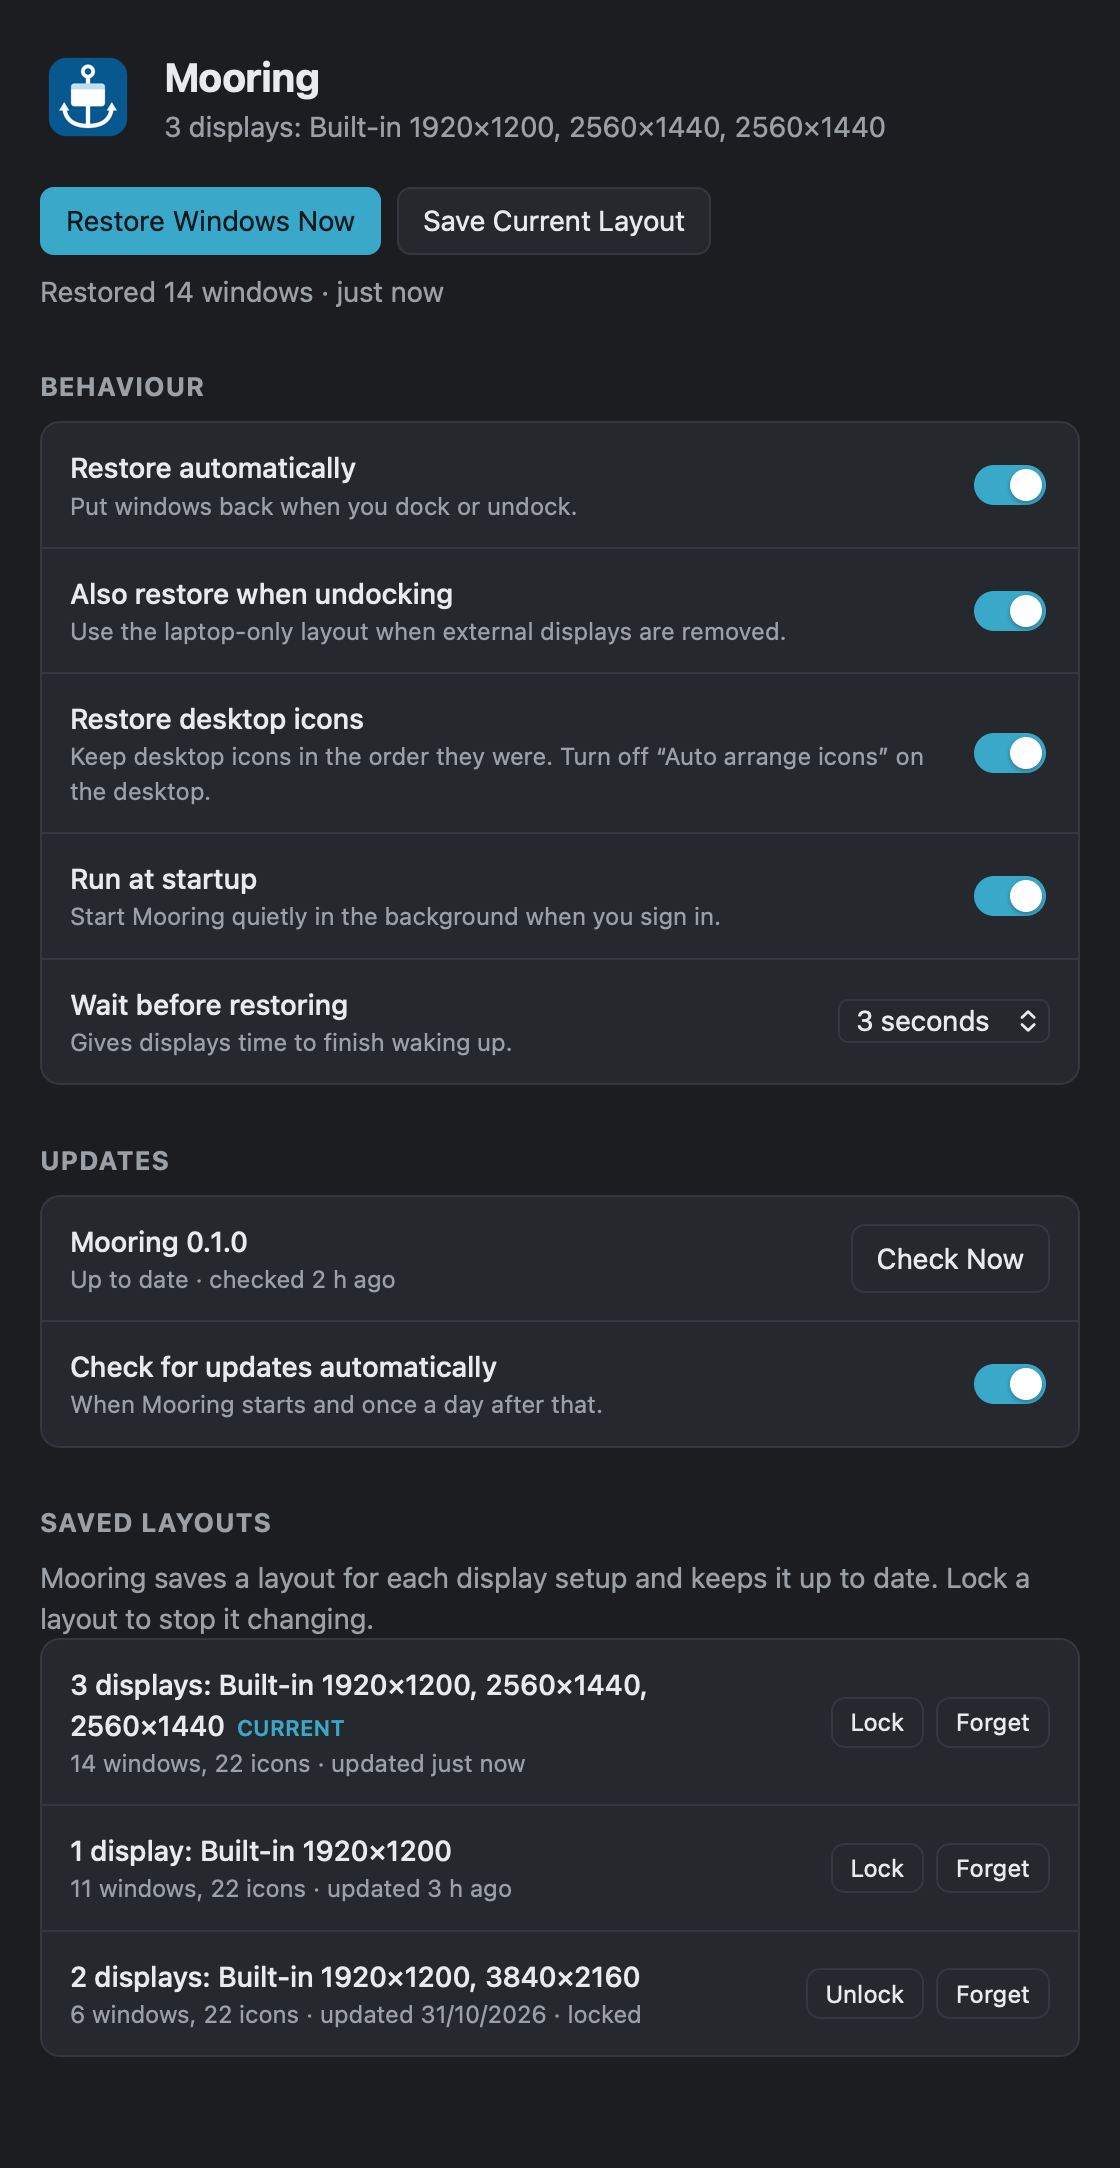
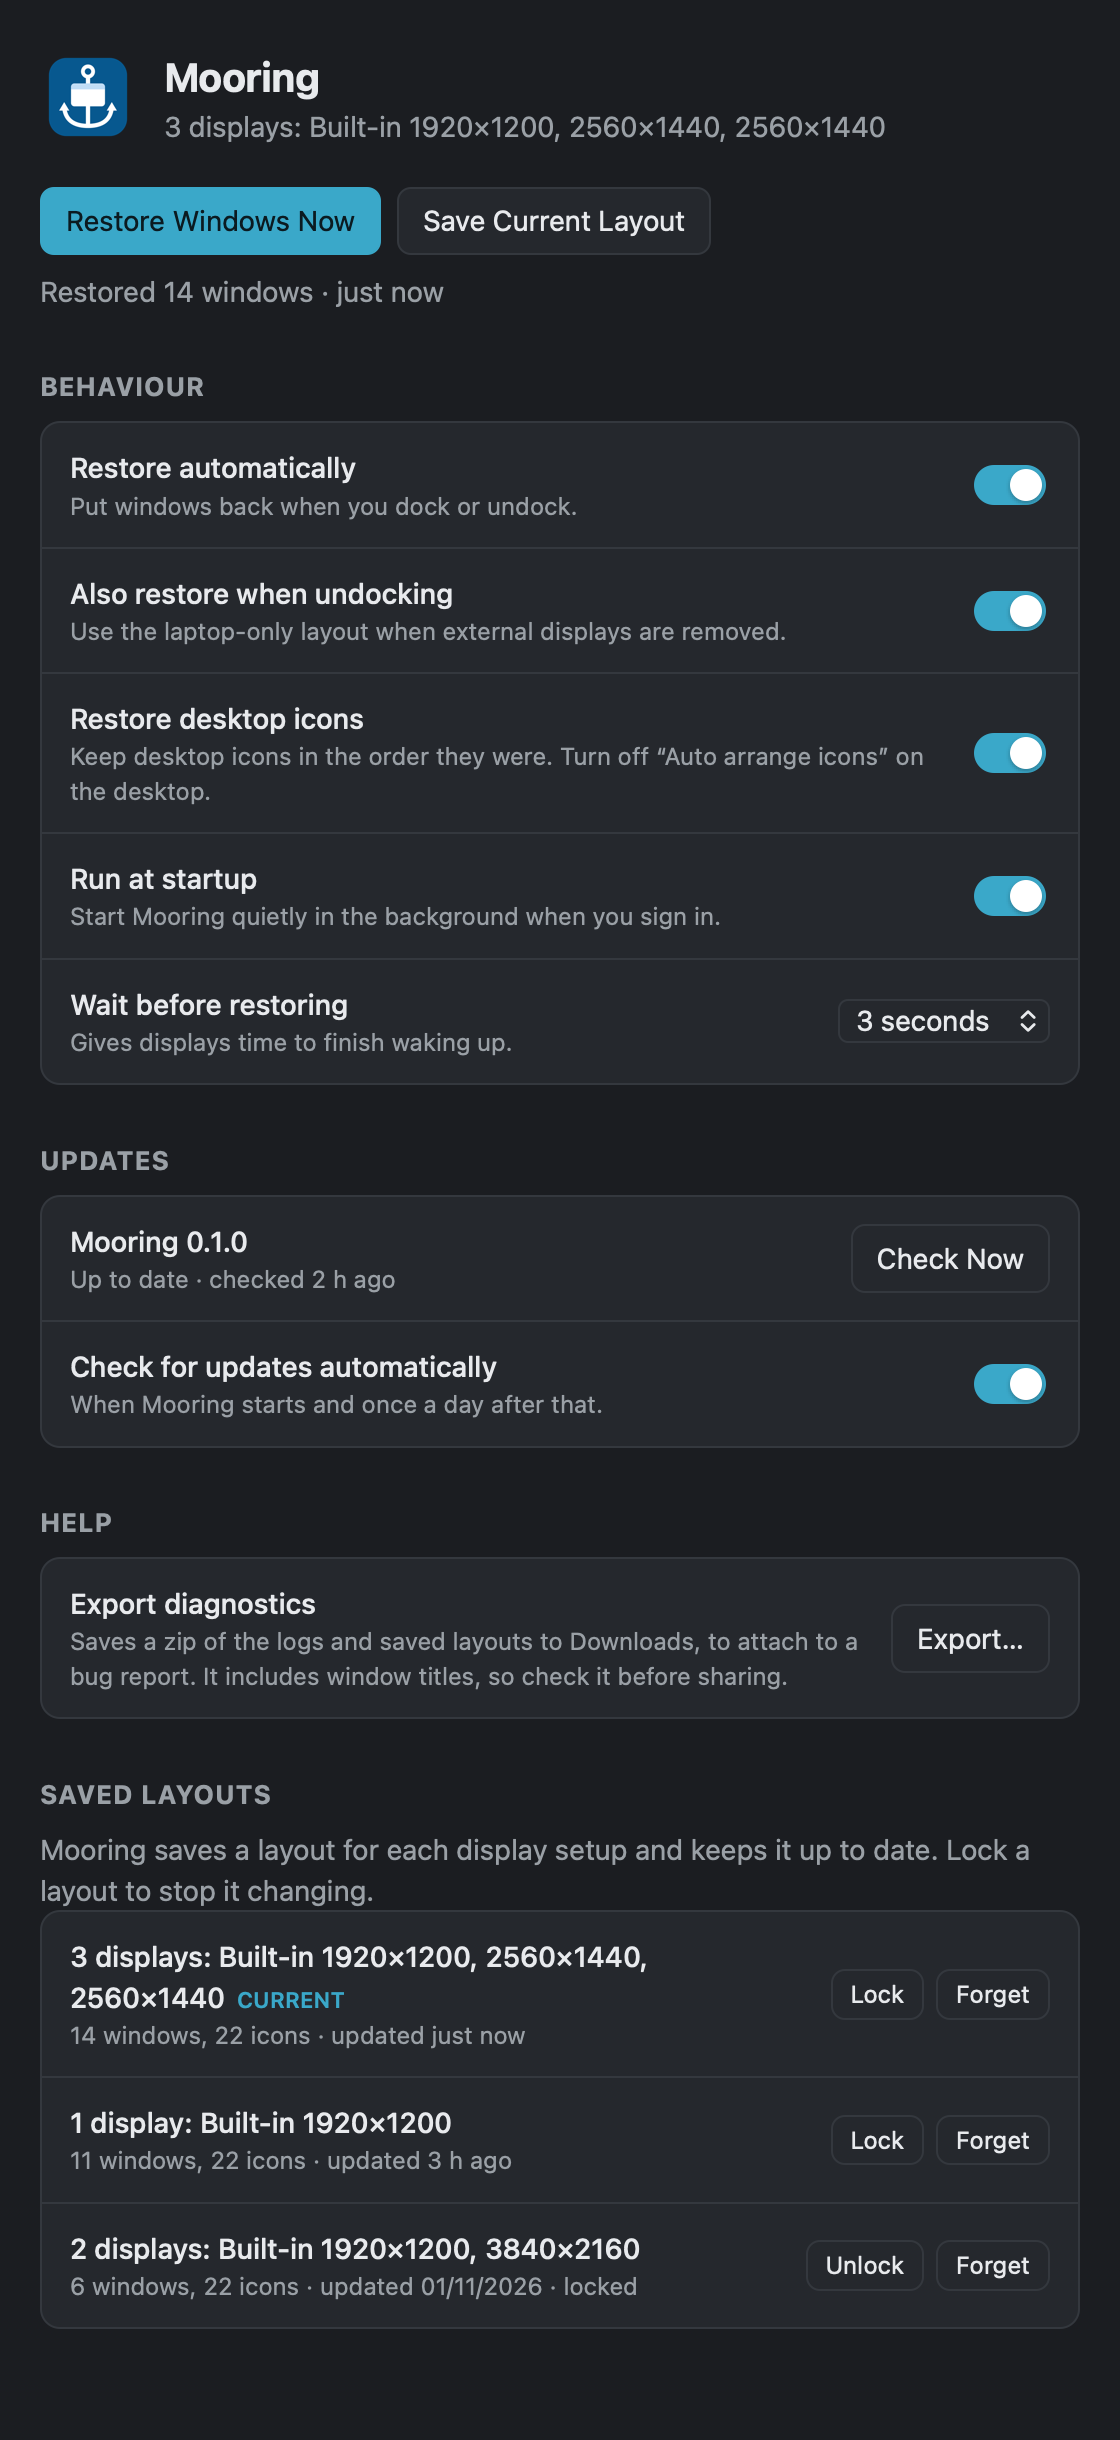
Add Export Diagnostics
A Settings button and a tray item save a zip to Downloads with the logs,
saved layouts, settings and system.json (version, OS, displays, login
item and current status), then show it in Finder / Explorer.

diff --git a/ui/index.html b/ui/index.html
@@ -108,6 +108,17 @@
       </label>
     </section>
 
+    <h2>Help</h2>
+    <section class="group">
+      <div class="row">
+        <span>
+          <span class="title">Export diagnostics</span>
+          <span class="hint">Saves a zip of the logs and saved layouts to Downloads, to attach to a bug report. It includes window titles, so check it before sharing.</span>
+        </span>
+        <button id="diagnostics">Export…</button>
+      </div>
+    </section>
+
     <h2>Saved Layouts</h2>
     <p class="muted">Mooring saves a layout for each display setup and keeps it up to date. Lock a layout to stop it changing.</p>
     <section class="group" id="layouts"></section>

diff --git a/ui/main.js b/ui/main.js
@@ -160,6 +160,9 @@ $("restore").onclick = () =>
     r.moved ? `Restored ${r.moved} windows` : "Windows are already in place");
 $("save").onclick = () => run($("save"), "save_now", (n) => `Saved ${n} windows`);
 $("grant").onclick = () => invoke("request_permission");
+$("diagnostics").onclick = () =>
+  run($("diagnostics"), "export_diagnostics", (path) =>
+    `Saved ${path.split(/[\\/]/).pop()} to Downloads`);
 $("open-login-items").onclick = () => invoke("open_login_items");
 $("update-banner-install").onclick = installUpdate;
 $("update-action").onclick = async () => {

diff --git a/src-tauri/src/diagnostics.rs b/src-tauri/src/diagnostics.rs
@@ -1,0 +1,162 @@
+//! "Export Diagnostics": a zip of everything useful for a bug report.
+//!
+//! It holds the logs, saved layouts and settings, and `system.json` with the
+//! Mooring version, OS, displays and current status. It's saved to Downloads
+//! and shown in Finder / Explorer, ready to attach to an issue.
+
+use crate::engine::{now_secs, Engine};
+use crate::{login, platform};
+use serde_json::json;
+use std::fs::File;
+use std::io::Write;
+use std::path::{Path, PathBuf};
+use tauri::{AppHandle, Manager};
+use zip::write::SimpleFileOptions;
+use zip::ZipWriter;
+
+/// Builds the zip and returns where it was saved.
+pub fn export(app: &AppHandle, engine: &Engine) -> Result<PathBuf, String> {
+    let path = app.path();
+    let out_dir = path
+        .download_dir()
+        .or_else(|_| path.desktop_dir())
+        .map_err(|e| e.to_string())?;
+    let out = out_dir.join(format!("Mooring diagnostics {}.zip", timestamp()));
+    let data_dir = path.app_data_dir().map_err(|e| e.to_string())?;
+    let log_dir = path.app_log_dir().map_err(|e| e.to_string())?;
+
+    let file = File::create(&out).map_err(|e| format!("Couldn't create {}: {e}", out.display()))?;
+    let mut zip = ZipWriter::new(file);
+    let options = SimpleFileOptions::default();
+
+    let system = serde_json::to_string_pretty(&system_info(app, engine)).unwrap_or_default();
+    add_bytes(&mut zip, "system.json", system.as_bytes(), options)?;
+    for name in ["settings.json", "layouts.json"] {
+        add_file(&mut zip, name, &data_dir.join(name), options)?;
+    }
+    if let Ok(entries) = std::fs::read_dir(&log_dir) {
+        for entry in entries.flatten() {
+            let p = entry.path();
+            if p.extension().is_some_and(|e| e == "log") {
+                let name = format!("logs/{}", entry.file_name().to_string_lossy());
+                add_file(&mut zip, &name, &p, options)?;
+            }
+        }
+    }
+    zip.finish().map_err(|e| e.to_string())?;
+
+    log::info!("exported diagnostics to {}", out.display());
+    reveal(&out);
+    Ok(out)
+}
+
+fn system_info(app: &AppHandle, engine: &Engine) -> serde_json::Value {
+    json!({
+        "mooring_version": app.package_info().version.to_string(),
+        "platform": platform::NAME,
+        "os_version": os_version(),
+        "arch": std::env::consts::ARCH,
+        "exported_at": now_secs(),
+        "launch_at_login": login::is_enabled(app),
+        "login_needs_approval": login::needs_approval(app),
+        "displays": platform::displays(),
+        "open_windows": platform::windows().len(),
+        "status": engine.status(),
+    })
+}
+
+fn add_bytes(
+    zip: &mut ZipWriter<File>,
+    name: &str,
+    bytes: &[u8],
+    options: SimpleFileOptions,
+) -> Result<(), String> {
+    zip.start_file(name, options).map_err(|e| e.to_string())?;
+    zip.write_all(bytes).map_err(|e| e.to_string())
+}
+
+/// Adds a file if it exists; a missing file (say, no layouts yet) is skipped.
+fn add_file(
+    zip: &mut ZipWriter<File>,
+    name: &str,
+    path: &Path,
+    options: SimpleFileOptions,
+) -> Result<(), String> {
+    match std::fs::read(path) {
+        Ok(bytes) => add_bytes(zip, name, &bytes, options),
+        Err(_) => Ok(()),
+    }
+}
+
+/// Local date and time for the file name, e.g. `2026-11-03 1142`.
+fn timestamp() -> String {
+    #[cfg(target_os = "macos")]
+    let output = std::process::Command::new("date")
+        .arg("+%Y-%m-%d %H%M")
+        .output();
+    #[cfg(windows)]
+    let output = hidden_command("powershell")
+        .args([
+            "-NoProfile",
+            "-Command",
+            "Get-Date -Format 'yyyy-MM-dd HHmm'",
+        ])
+        .output();
+    #[cfg(not(any(target_os = "macos", windows)))]
+    let output = std::process::Command::new("date")
+        .arg("+%Y-%m-%d %H%M")
+        .output();
+    output
+        .ok()
+        .map(|o| String::from_utf8_lossy(&o.stdout).trim().to_string())
+        .filter(|s| !s.is_empty())
+        .unwrap_or_else(|| now_secs().to_string())
+}
+
+fn os_version() -> String {
+    #[cfg(target_os = "macos")]
+    let output = std::process::Command::new("sw_vers").output();
+    #[cfg(windows)]
+    let output = hidden_command("cmd").args(["/C", "ver"]).output();
+    #[cfg(not(any(target_os = "macos", windows)))]
+    let output = std::process::Command::new("uname").arg("-a").output();
+    output
+        .ok()
+        .map(|o| {
+            String::from_utf8_lossy(&o.stdout)
+                .split_whitespace()
+                .collect::<Vec<_>>()
+                .join(" ")
+        })
+        .unwrap_or_default()
+}
+
+/// Shows the file selected in Finder / Explorer.
+fn reveal(path: &Path) {
+    #[cfg(target_os = "macos")]
+    let result = std::process::Command::new("open")
+        .arg("-R")
+        .arg(path)
+        .spawn();
+    #[cfg(windows)]
+    let result = std::process::Command::new("explorer")
+        .arg(format!("/select,{}", path.display()))
+        .spawn();
+    #[cfg(not(any(target_os = "macos", windows)))]
+    let result = std::process::Command::new("xdg-open")
+        .arg(path.parent().unwrap_or(path))
+        .spawn();
+    if let Err(e) = result {
+        log::warn!("could not show diagnostics file: {e}");
+    }
+}
+
+/// A command that doesn't flash a console window.
+#[cfg(windows)]
+fn hidden_command(program: &str) -> std::process::Command {
+    use std::os::windows::process::CommandExt;
+    const CREATE_NO_WINDOW: u32 = 0x0800_0000;
+    let mut command = std::process::Command::new(program);
+    command.creation_flags(CREATE_NO_WINDOW);
+    command
+}

diff --git a/src-tauri/src/lib.rs b/src-tauri/src/lib.rs
@@ -1,3 +1,4 @@
+mod diagnostics;
 mod engine;
 mod login;
 mod model;
@@ -149,6 +150,18 @@ fn request_permission() {
 }
 
 #[tauri::command]
+async fn export_diagnostics(
+    app: AppHandle,
+    engine: State<'_, Arc<Engine>>,
+) -> Result<String, String> {
+    let engine = Arc::clone(&engine);
+    tauri::async_runtime::spawn_blocking(move || diagnostics::export(&app, &engine))
+        .await
+        .map_err(|e| e.to_string())?
+        .map(|path| path.display().to_string())
+}
+
+#[tauri::command]
 fn open_login_items() {
     login::open_settings();
 }
@@ -200,6 +213,13 @@ fn build_tray(app: &AppHandle) -> tauri::Result<()> {
         None::<&str>,
     )?;
     let update = MenuItem::with_id(app, "update", "Check for Updates…", true, None::<&str>)?;
+    let diagnostics = MenuItem::with_id(
+        app,
+        "diagnostics",
+        "Export Diagnostics…",
+        true,
+        None::<&str>,
+    )?;
     let settings = MenuItem::with_id(app, "settings", "Settings…", true, None::<&str>)?;
     let quit = MenuItem::with_id(app, "quit", "Quit Mooring", true, None::<&str>)?;
     let menu = Menu::with_items(
@@ -212,6 +232,7 @@ fn build_tray(app: &AppHandle) -> tauri::Result<()> {
             &launch_at_login,
             &PredefinedMenuItem::separator(app)?,
             &update,
+            &diagnostics,
             &settings,
             &quit,
         ],
@@ -273,6 +294,14 @@ fn build_tray(app: &AppHandle) -> tauri::Result<()> {
                             let _ = updater::install(&app).await;
                         } else {
                             run_update_check(&app, false).await;
+                        }
+                    });
+                }
+                "diagnostics" => {
+                    let app = app.clone();
+                    std::thread::spawn(move || {
+                        if let Err(e) = diagnostics::export(&app, &engine) {
+                            log::error!("could not export diagnostics: {e}");
                         }
                     });
                 }
@@ -366,6 +395,7 @@ pub fn run() {
             forget_layout,
             request_permission,
             open_login_items,
+            export_diagnostics,
             get_update,
             check_update,
             install_update,
